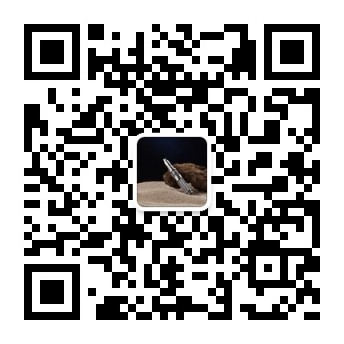
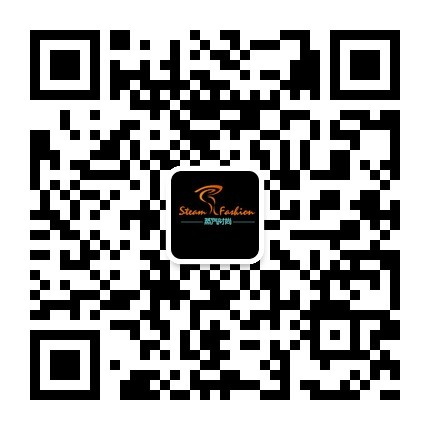
fix aboutus contact and qrcode pic

Changed region(s): [[0.3779, 0.3779, 0.6105, 0.6105]]

diff --git a/index.html b/index.html
@@ -184,12 +184,9 @@
 			<div class='put-image'>
 				<img src="material/logo.png">
 			</div>
-			<p>
-				本公司是新宜康唯铂尔北京办事处，负责艾塔电子烟和烟液在华中、华北、华西市场的招商推广，欢迎洽谈实体店加盟，代理商加盟和微商加盟。凡在我公司加盟，都有公司授权，可放心经营。
-				</p>
-				<p>
-				目前有很多模仿我公司山寨产品，目前有很多模仿我公司的山寨产品，请各位顾客注意防伪验证，凡不是在我公司以及我公司授权的商户处购买得山寨产品，以及造成的任何后果，本公司概不负责。另如发现我公司商户有将电子烟销售给未成年人，请向我公司举报，如情况属实，我公司有相应奖励。
-			</p>
+			<p>新宜康科技有限公司一家集设计、销售为一体的电子烟企业，凭借在电子烟领域的专业水平和实力，在业内迅速崛起。唯铂尔已成功获得国际一流电子烟品牌厂家“innokin(新宜康)”的全系列产品在大中华区（包括大陆、香港、台湾、澳门）的唯一指定总承销商授权，全权负责新宜康厂家旗下所有产品在中国市场的销售、招商与推广。其代理的新宜康旗下的itaste、coolfire、lily等产品已在大中华区广泛流行并以其一流的产品质量和创新理念受到了用户的一致好评。</p>
+		<p>唯铂尔作为新宜康厂家在中国市场指定的销售合作伙伴，通过其规范、专业化的渠道管理体系，逐步在全国构建立体营销网络，目前已在各省份发展了多家代理商及开设新宜康旗下itaste等系列产品专卖店。</p>
+		<p>蒸汽时尚电子技术（北京）有限公司以倡导健康生活方式为理念，由深圳市唯铂尔有限公司授权负责北京及周边华北地区的市场推广及招商加盟，主要经营新宜康旗下itaste、coolfire、lily等高品质正品行货，诚邀您一起，创造新的健康生活方式！</p>
 		</div>
 	</div>
 	<div class='right-div'>
@@ -201,6 +198,7 @@
 			<p>
 				深圳新宜康电子烟生产厂商是众多电子烟技术的发明者, 如笔夹盖、吸烟口数计数器、贯通装置、磁铁连接技术等。
 				新宜康生产厂家坚持自主研发,打造电子烟自主品牌，其所生产的电子烟都具有独特品质，如 LEA, AIO, iTaste, Coolfire等。</p>
+				 <p>新怡康有经验丰富的电子烟设计研发团队，每3个月推出一款新电子烟产品，每年至少研发4款新产品。为保证新产品的高质量销售，在产品推出之前都会经过严格的测试使质量缺陷达到最小。拥有一整套专业的电子烟检查管理系统，对来料检验到发货前的全部流程进行严格的检查，每条生产线至少配备5个质检员，并对所有的员工定期进行技能培训。</p>
 				<p>
 				新宜康生产厂家只生产高质量电子香烟，其中智能变电压电子烟iTaste VV和国际高销量的电子烟充电装置AIO已成为行业经典之作。
 				生产厂家对产品的研发和完善深入到每个细节，不断提高品质，力争以最好的电子烟体验回报客户。

diff --git a/product/aboutUS.html b/product/aboutUS.html
@@ -157,9 +157,9 @@
 <h2>蒸汽时尚</h2>
 <HR width="100%" color=#111 SIZE=1 />
 <div class='left-div'>
-	<p>蒸汽时尚电子技术（北京）有限公司是一家集设计、销售为一体的电子烟企业，凭借在电子烟领域的专业水平和实力，在业内迅速崛起。作为一家具备设计、销售实力的公司，主要代理国内外知名电子烟品牌，已成功获得国际一流电子烟品牌厂家“innokin(新宜康)”的全系列产品在大中华区（包括大陆、香港、台湾、澳门）的唯一指定总承销商授权，全权负责新宜康厂家旗下所有产品在中国市场的销售、招商与推广。其代理的新宜康旗下的itaste、coolfire、lily等产品已在大中华区广泛流行并以其一流的产品质量和创新理念受到了用户的一致好评。</p>
-	<p>作为新宜康厂家在中国市场指定的销售合作伙伴，唯铂尔公司通过其规范、专业化的渠道管理体系，逐步在全国构建立体营销网络，目前已在各省份发展了多家代理商及开设新宜康旗下itaste等系列产品专卖店。</p>
-	<p>蒸汽时尚以创新、品质为核心，以倡导健康生活方式为理念，依靠科技求发展，不断为用户提供满意的高科技电子烟产品，是我们始终不变的追求，立志为引导人类生活健康方式而努力！</p>
+	<p>新宜康科技有限公司一家集设计、销售为一体的电子烟企业，凭借在电子烟领域的专业水平和实力，在业内迅速崛起。唯铂尔已成功获得国际一流电子烟品牌厂家“innokin(新宜康)”的全系列产品在大中华区（包括大陆、香港、台湾、澳门）的唯一指定总承销商授权，全权负责新宜康厂家旗下所有产品在中国市场的销售、招商与推广。其代理的新宜康旗下的itaste、coolfire、lily等产品已在大中华区广泛流行并以其一流的产品质量和创新理念受到了用户的一致好评。</p>
+	<p>唯铂尔作为新宜康厂家在中国市场指定的销售合作伙伴，通过其规范、专业化的渠道管理体系，逐步在全国构建立体营销网络，目前已在各省份发展了多家代理商及开设新宜康旗下itaste等系列产品专卖店。</p>
+	<p>蒸汽时尚电子技术（北京）有限公司以倡导健康生活方式为理念，由深圳市唯铂尔有限公司授权负责北京及周边华北地区的市场推广及招商加盟，主要经营新宜康旗下itaste、coolfire、lily等高品质正品行货，诚邀您一起，创造新的健康生活方式！</p>
 </div>
 <div class='right-div'>
 <div id='image-change' class='put-image'>

diff --git a/product/contact.html b/product/contact.html
@@ -159,11 +159,12 @@
 	<p>蒸汽时尚电子技术（北京）有限公司</p>
 	<p>公司电话：010-68647668</p>
 	<p>公司地址：北京市石景山区石景山路32号8幢10号办公区</p>
-	<p></p>
+	<p><br></p>
 	<h3>招商加盟</h3>
-	<p>联系人：代先生</p>
-	<p>联系电话：010-68647668 13522960666</p>
-	<p>E-mail：daishicheng@zhengqishishang.com</p>
+	<p>联系人：王先生</p>
+	<p>电话：010-68647668  17600856877</p>
+	<p>QQ：54412767</p>
+	<p>邮箱：wangyunpo@zhengqishishang.com</p>
 </div>
 <div class='right-div'>
 <div class='put-image qrcode-contact'>
